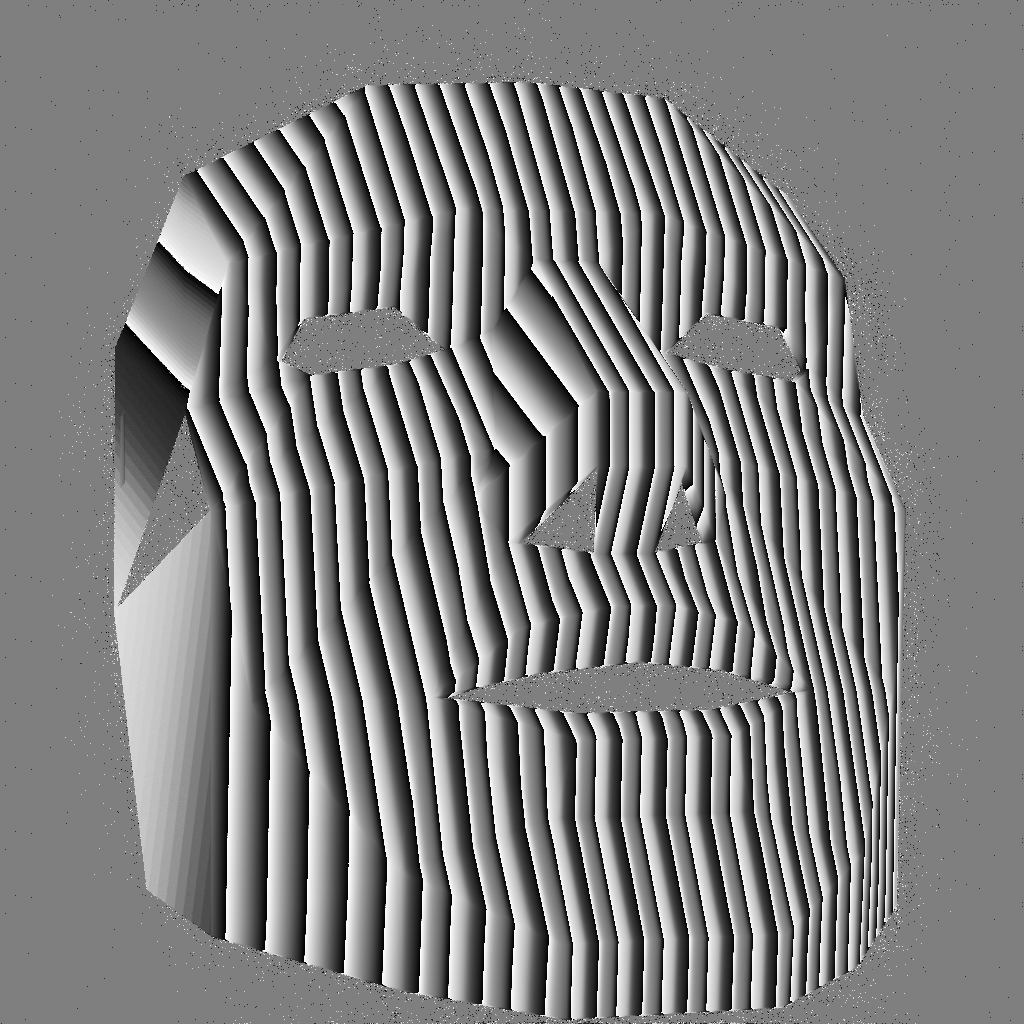
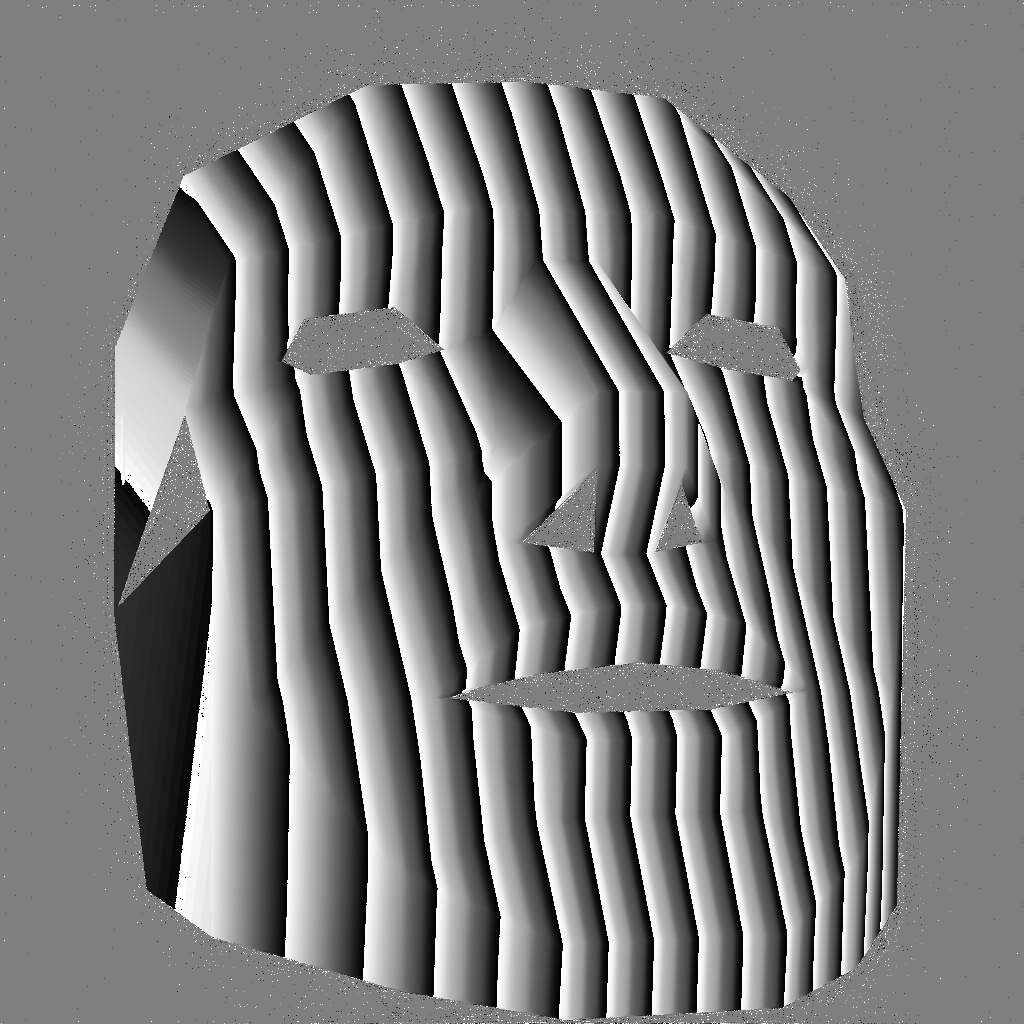
use of np.arctan2 function
this way the output is given between -pi and pi, and we can give the function the numerator and denominator

diff --git a/Algorithm.py b/Algorithm.py
@@ -14,8 +14,8 @@ def unwraping(phase):
 
 	#phase unwrapping
 
-	absolutephase=(np.unwrap(np.unwrap(phase,axis=0), axis=-1))
-	#absolutephase = unwrap_phase(phase) #skimage function
+	#absolutephase=(np.unwrap(np.unwrap(phase,axis=0), axis=-1))
+	absolutephase = unwrap_phase(phase) #skimage function
 
 
 	return absolutephase
@@ -47,9 +47,9 @@ def reconst(phaseobj,phaseref,l,d,f):
 # I3r= cv2.imread("I3r.png",-1)  #Intensity of fringe pattern with phase shift=+2pi/3
 
 #Import pictures of object
-I1= Image.open("I1.tif")  #Intensity of fringe pattern with phase shift=-2pi/3
-I2= Image.open("I2.tif")  #Intensity of fringe pattern with phase shift=0
-I3= Image.open("I3.tif")  #Intensity of fringe pattern with phase shift=+2pi/3
+I1= Image.open("I1f.tif")  #Intensity of fringe pattern with phase shift=-2pi/3
+I2= Image.open("I2f.tif")  #Intensity of fringe pattern with phase shift=0
+I3= Image.open("I3f.tif")  #Intensity of fringe pattern with phase shift=+2pi/3
 
 #Import pictures of reference plane
 I1r= Image.open("I1r.tif")  #Intensity of fringe pattern with phase shift=-2pi/3
@@ -88,29 +88,29 @@ x,y=np.meshgrid(xx,yy)
 
 
 #Object
-eq=np.zeros((1024,1024))
-mat1=I1-I3
-mat2=2*I2-I1-I3
-lp=np.where(mat2!= 0)         #to avoid divisions by zero
-eq[lp]=np.sqrt(3)*(mat1[lp]/mat2[lp])
+#eq=np.zeros((1024,1024))
+#mat1=I1-I3
+#mat2=2*I2-I1-I3
+#lp=np.where(mat2!= 0)         #to avoid divisions by zero
+#eq[lp]=np.sqrt(3)*(mat1[lp]/mat2[lp])
 #eq=np.sqrt(3)*((I1-I3)/(2*I2-I1-I3))
-phase=np.arctan(eq)            #Relative phase calculation
-realphase_ob=unwraping(phase*2*np.pi)  #Absolute phase calculation
+phase=np.arctan2(np.sqrt(3)*(I1-I3), 2*I2-I1-I3)            #Relative phase calculation
+realphase_ob=unwraping(phase)  #Absolute phase calculation
 
 
 #Reference plane
-eq_r=np.zeros((1024,1024))
-mat1r=I1r-I3r
-mat2r=2*I2r-I1r-I3r
-lr=np.where(mat2r!= 0)          #to avoid divisions by zero
-eq_r[lr]=np.sqrt(3)*(mat1r[lr]/mat2r[lr])
+# eq_r=np.zeros((1024,1024))
+# mat1r=I1r-I3r
+# mat2r=2*I2r-I1r-I3r
+# lr=np.where(mat2r!= 0)          #to avoid divisions by zero
+# eq_r[lr]=np.sqrt(3)*(mat1r[lr]/mat2r[lr])
 #eq_r=np.sqrt(3)*((I1r-I3r)/(2*I2r-I1r-I3r))
-phase_r=np.arctan(eq_r)         #Relative phase calculation
+phase_r=np.arctan2(np.sqrt(3)*(I1r-I3r), 2*I2r-I1r-I3r)         #Relative phase calculation
 #slicee=phase_r[512,:]
 #print(phase_r[512,:])
 #plt.plot(xx,slicee)
 #plt.savefig("slicee.png")
-realphase_r=unwraping(phase_r*2*np.pi)  #Absolute phase calculation
+realphase_r=unwraping(phase_r)  #Absolute phase calculation
 #plt.plot(xx,realphase_r)              
 #plt.savefig("unwrappedslicee.png")
 
